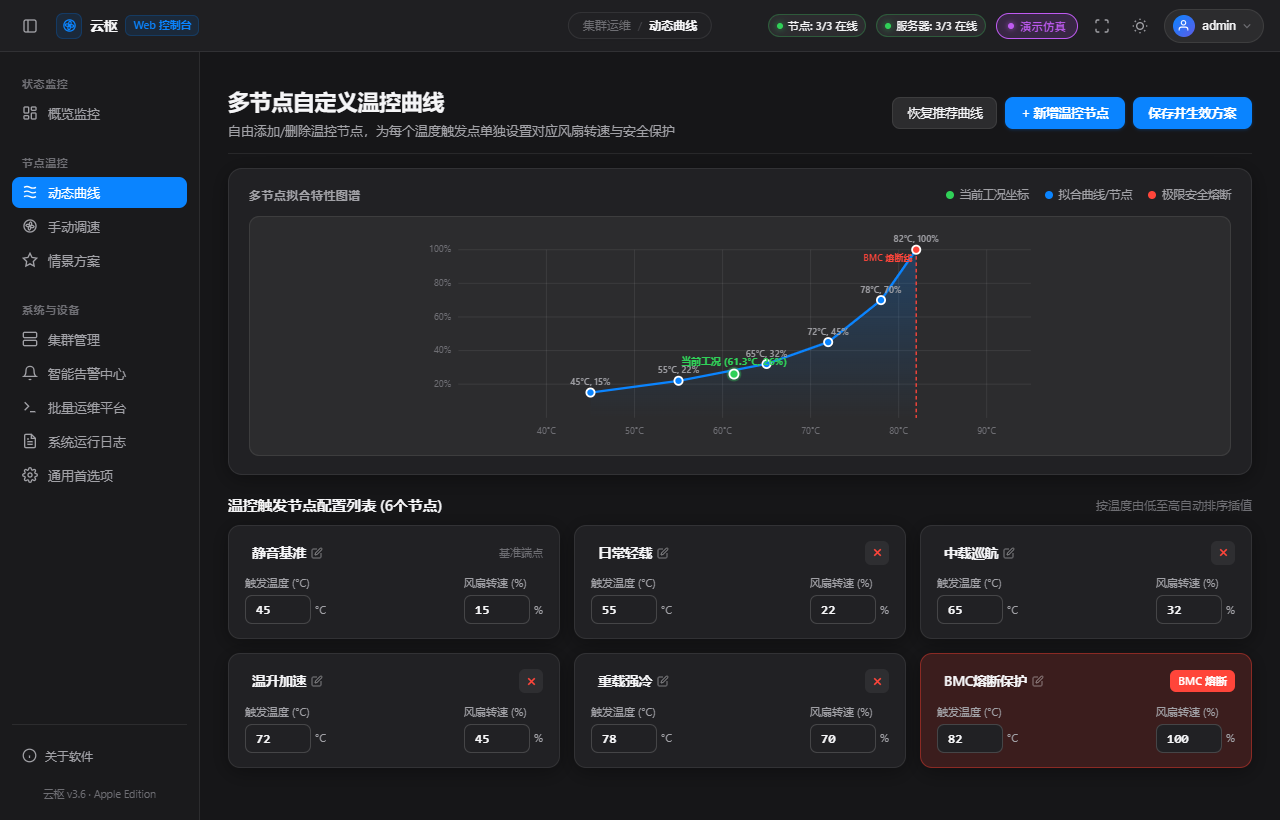
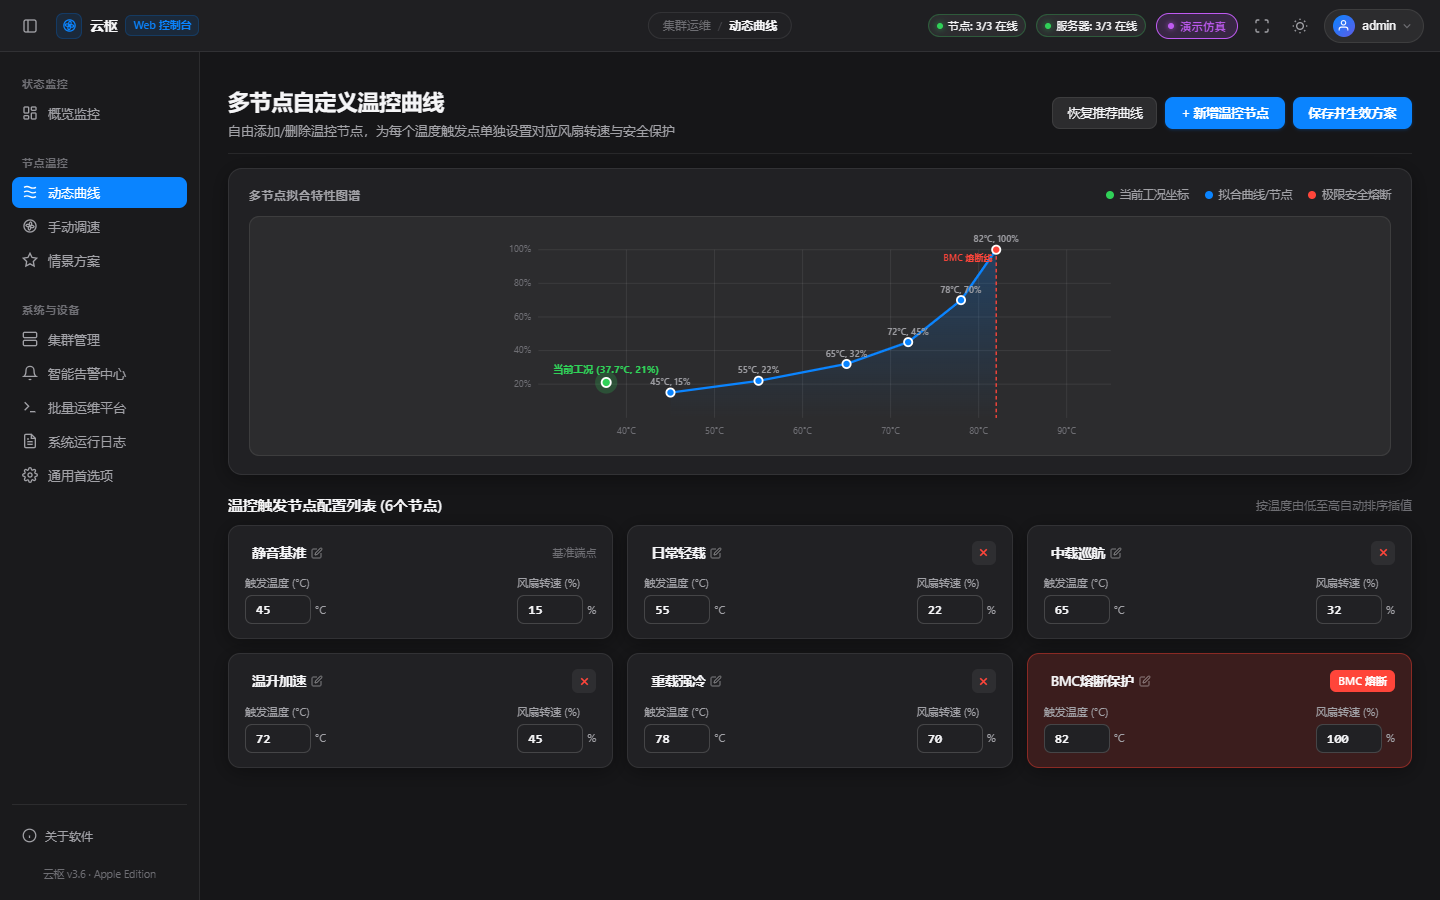
docs: regenerate full high-res Web console screenshots and enhance headless screenshot automation

diff --git a/src/ui/app.js b/src/ui/app.js
@@ -546,6 +546,18 @@ function showToast(message, type = 'info') {
 let isPywebviewReady = false;
 
 function bootstrapApp() {
+  // 0. 处理 URL 查询参数 (直接访问特定 Tab / 演示模式 / 模态窗)
+  try {
+    const urlParams = new URLSearchParams(window.location.search);
+    const qToken = urlParams.get('token');
+    if (qToken) {
+      localStorage.setItem('yunshu_token', qToken);
+    }
+    if (urlParams.get('demo') === '1' || urlParams.get('demo') === 'true') {
+      state.demo_mode = true;
+    }
+  } catch (_) {}
+
   initWebHeader();
   initSidebarTabs();
   initThemeToggle();
@@ -561,6 +573,11 @@ function bootstrapApp() {
   initServerDetailModalEvents();
   initSystemLogsTab();
   initSettingsTab();
+
+  if (state.demo_mode) {
+    const btnDemo = document.getElementById('btnToggleDemo');
+    if (btnDemo) btnDemo.classList.add('active');
+  }
 
   // 1. 初次启动即刻渲染探针矩阵骨架（展示配置中的物理节点），绝不等待异步返回
   renderProbeClusterMatrix();
@@ -1098,8 +1115,27 @@ let isFetchingNow = false;
 function startStatusPolling() {
   if (pollIntervalTimer) clearInterval(pollIntervalTimer);
   
+  const isScreenshotMode = new URLSearchParams(window.location.search).get('screenshot') === '1';
+
   // 启动即刻渲染并拉取最新状态快照
-  refreshAllData();
+  refreshAllData().then(() => {
+    const qTab = new URLSearchParams(window.location.search).get('tab');
+    if (qTab) {
+      const navItem = document.querySelector(`.mac-sidebar .nav-item[data-tab="${qTab}"]`);
+      if (navItem) navItem.click();
+    }
+    const qModal = new URLSearchParams(window.location.search).get('modal');
+    if (qModal === 'node' && typeof openHardwareNodeDetailModal === 'function') {
+      openHardwareNodeDetailModal('srv_primary');
+    }
+    if (isScreenshotMode) {
+      document.body.classList.add('screenshot-ready');
+    }
+  });
+
+  if (isScreenshotMode) {
+    return; // 截图模式下执行单次数据拉取渲染，避免无限长轮询阻塞 Headless 浏览器网络空闲检测
+  }
 
   // 界面 UI 画面刷新频率：默认 1 秒平滑重绘（用户可在设置中自定义 1~10s）
   const uiSec = Math.max(1, Math.min(10, state.uiRefreshSec || 1));

diff --git a/src/web_server.py b/src/web_server.py
@@ -155,6 +155,9 @@ def create_app(bridge: APIBridge, auth_mgr: AuthManager) -> Bottle:
         session = require_auth()
         if not session:
             redirect('/login')
+        q_token = request.query.get("token")
+        if q_token:
+            response.set_cookie("yunshu_session", q_token, path="/", httponly=True)
         return static_file('index.html', root=ui_dir)
 
     # -------------------------------------------------------------
